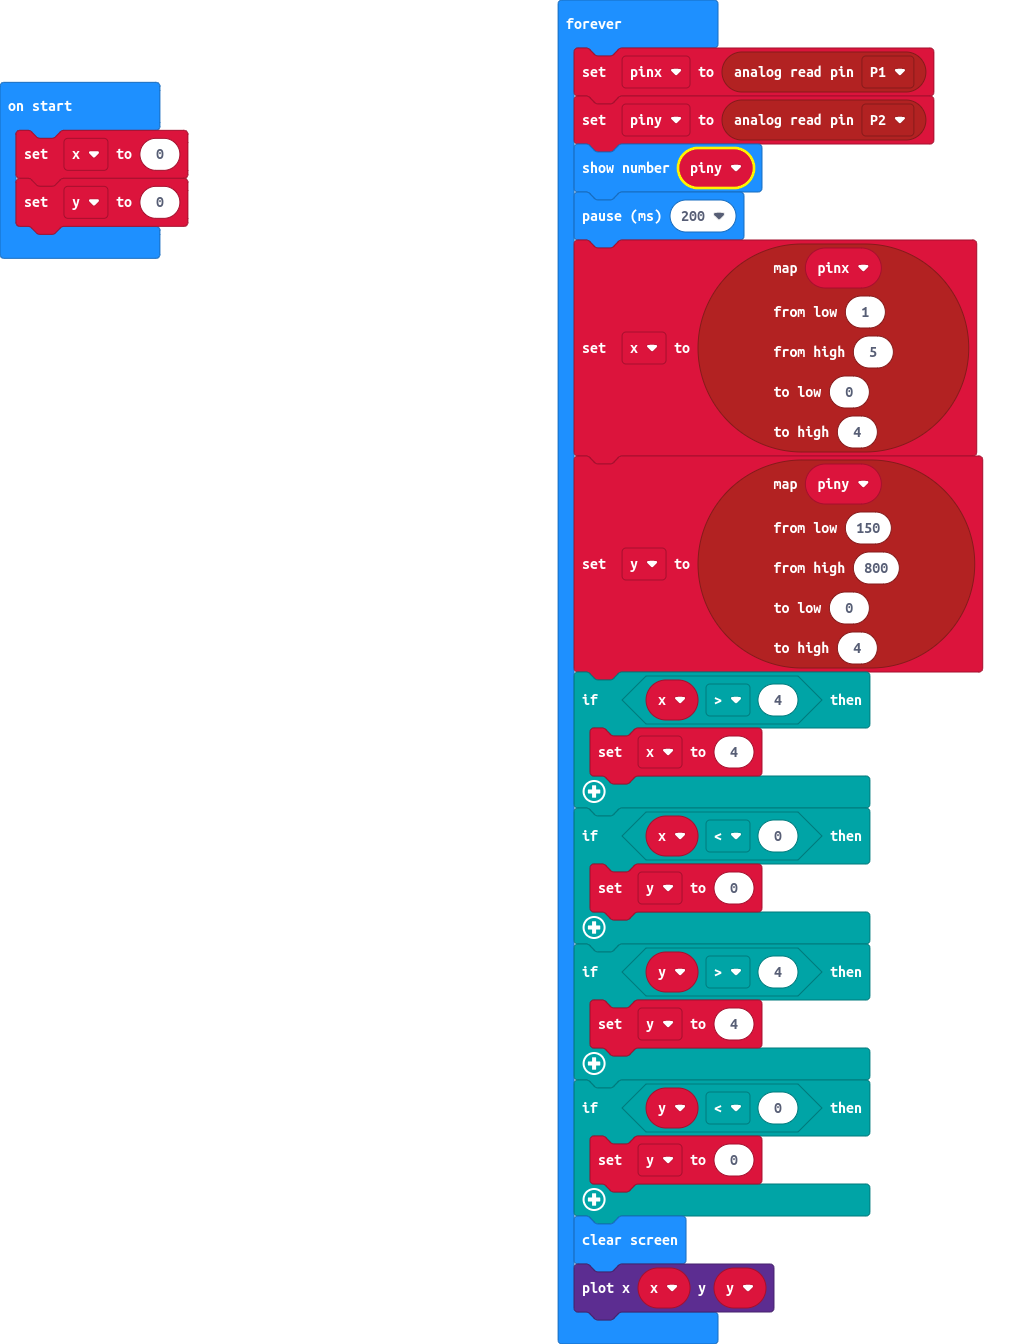
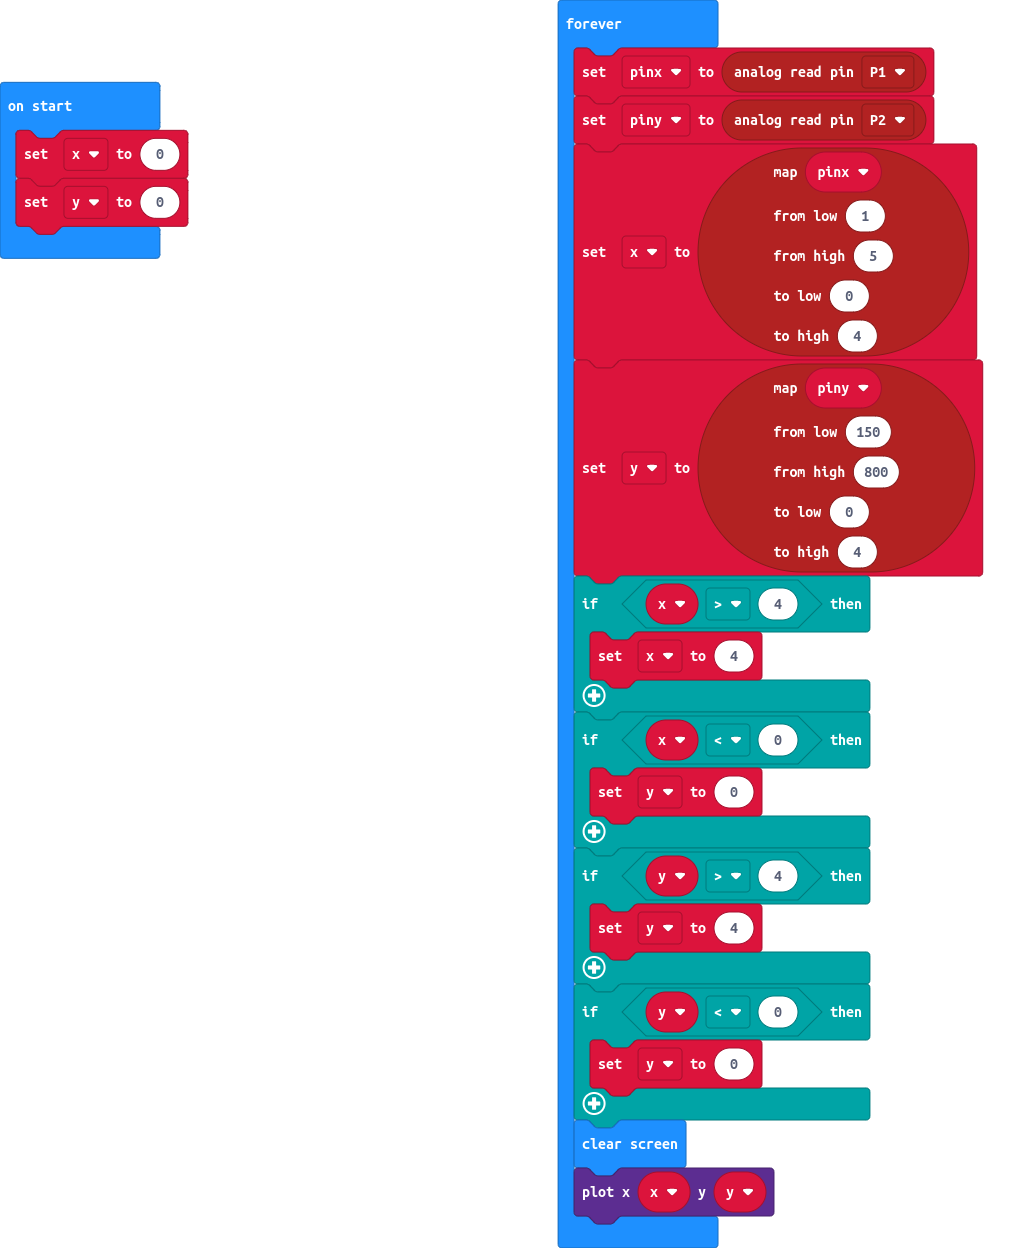
test

Changed region(s): [[0.5565, 0.0, 0.9585, 1.0], [0.0, 0.0625, 0.1855, 0.2188], [0.5565, 0.25, 0.5874, 0.2812]]

diff --git a/main.ts b/main.ts
@@ -5,8 +5,6 @@ let y = 0
 basic.forever(function () {
     pinx = pins.analogReadPin(AnalogPin.P1)
     piny = pins.analogReadPin(AnalogPin.P2)
-    basic.showNumber(piny)
-    basic.pause(200)
     x = pins.map(
     pinx,
     1,
